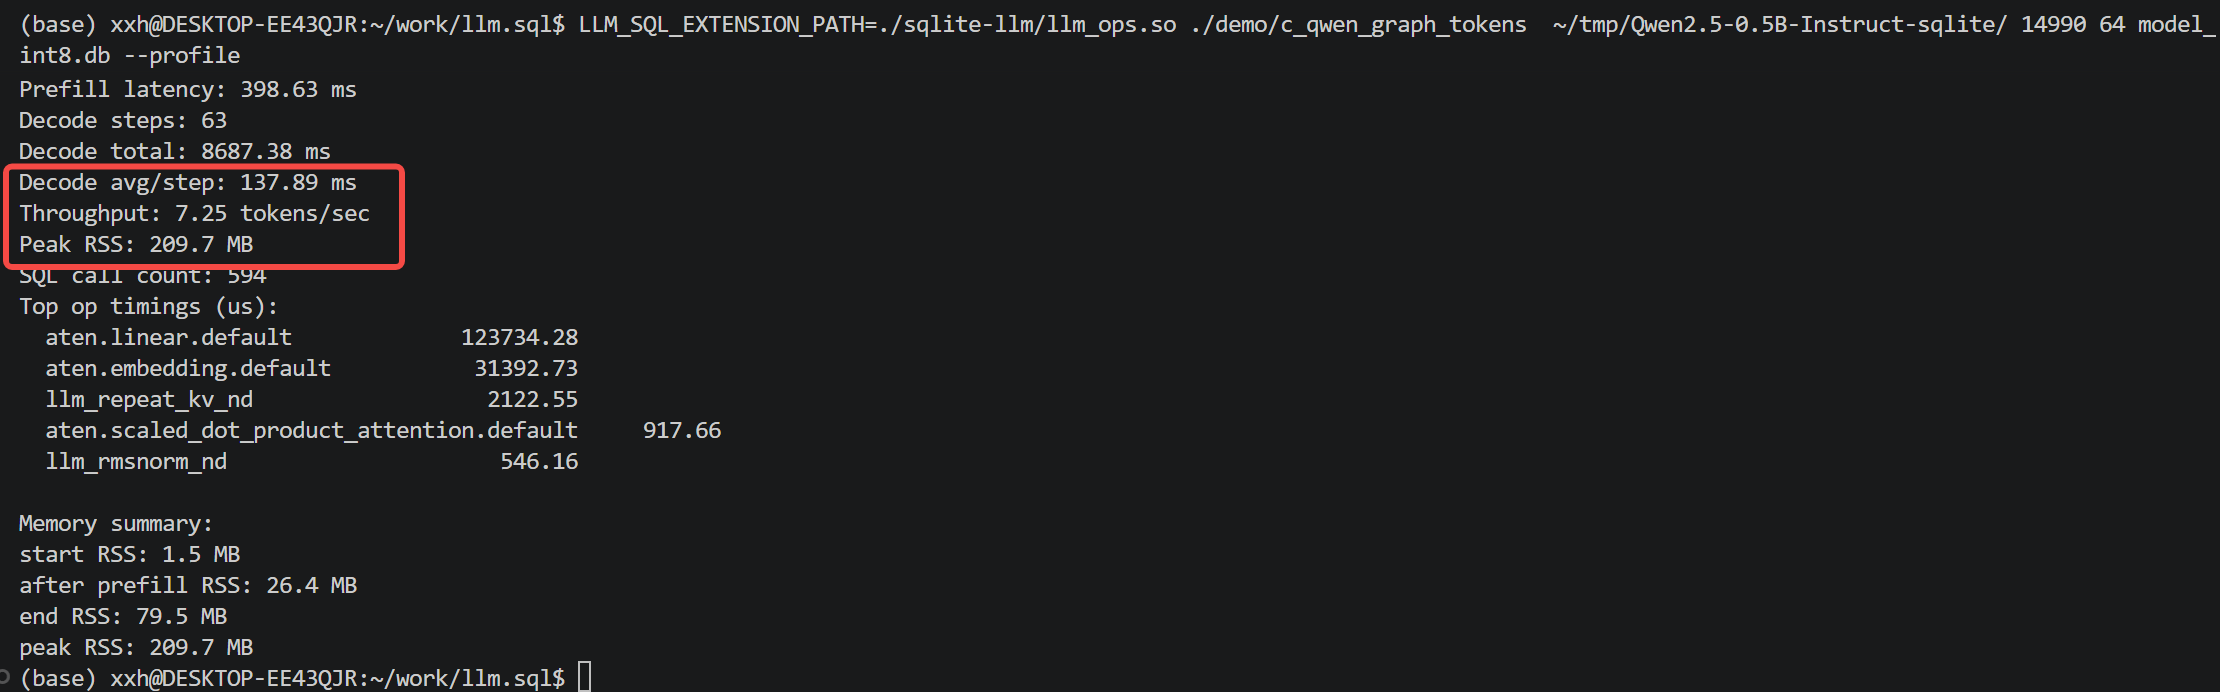
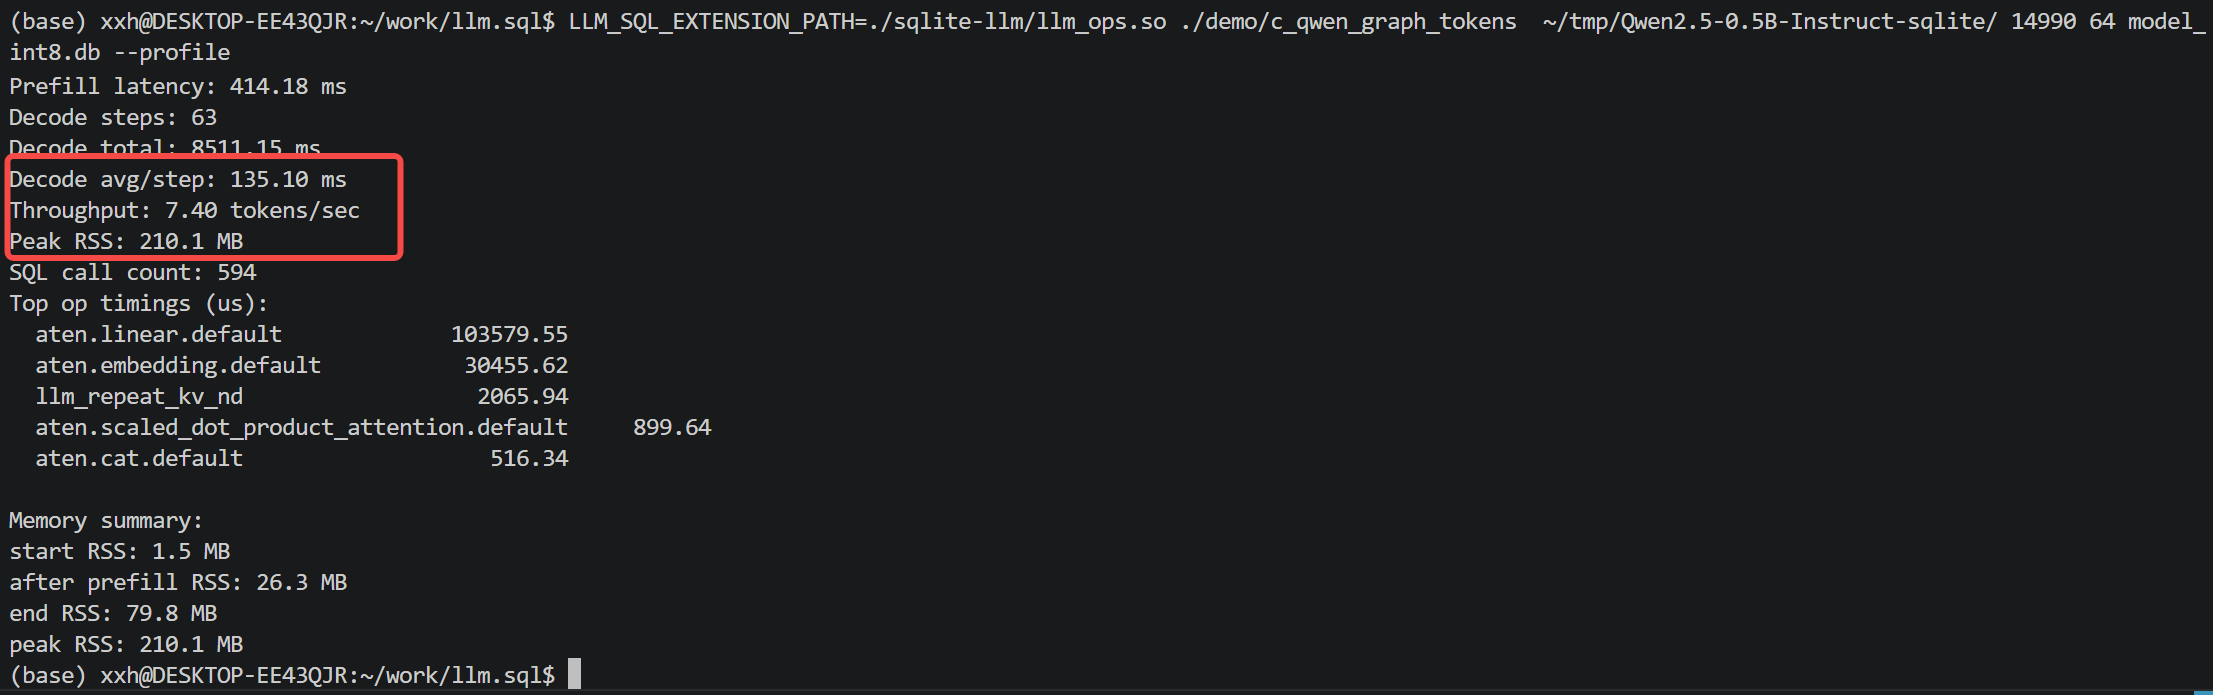
docs(C/C++) set thread to 1 even though it is not effect and rerun tests.

Changed region(s): [[0.0, 0.0, 0.9977, 0.698], [0.0, 0.7283, 0.2806, 1.0], [0.9977, 0.9711, 1.0, 1.0]]

diff --git a/demo/cpp_qwen_graph_tokens.cpp b/demo/cpp_qwen_graph_tokens.cpp
@@ -1,3 +1,10 @@
+/*
+ * @SPDX-License-Identifier: Apache-2.0
+ * @Author: xuxianghong12
+ * @Date: 2026-04-22 07:56:41
+ * @LastEditTime: 2026-04-23 00:08:05
+ * @LastEditors: xuxianghong12
+ */
 #include "native_graph_runtime.h"
 
 #include <cstdlib>
@@ -49,7 +56,7 @@ int main(int argc, char **argv) {
 
     const char *extensionPath = std::getenv("LLM_SQL_EXTENSION_PATH");
     const char *threadEnv = std::getenv("LLM_SQL_THREADS");
-    int numThreads = 4;
+    int numThreads = 1;
     if (threadEnv != nullptr && threadEnv[0] != '\0') {
         numThreads = std::atoi(threadEnv);
     }

diff --git a/demo/cpp_qwen_graph_string.cpp b/demo/cpp_qwen_graph_string.cpp
@@ -255,7 +255,7 @@ int main(int argc, char **argv) {
         std::getenv("LLM_SQL_THREADS");
     const char *dbFilename =
         positionalArgs.size() >= 4 ? positionalArgs[3] : nullptr;
-    int numThreads = 4;
+    int numThreads = 1;
 
     if (threadEnv != nullptr && threadEnv[0] != '\0') {
         numThreads = std::atoi(threadEnv);

diff --git a/demo/c_qwen_graph_tokens.c b/demo/c_qwen_graph_tokens.c
@@ -45,7 +45,7 @@ int main(int argc, char **argv) {
     int *prompt_ids = NULL;
     int prompt_len = 0;
     int max_tokens;
-    int num_threads = 4;
+    int num_threads = 1;
     int positional_count = 0;
     int profile_enabled = 0;
 

diff --git a/demo/README.md b/demo/README.md
@@ -2,7 +2,7 @@
  * @Author: xuxianghong12
  * @Date: 2026-04-14 12:23:20
  * @LastEditors: xuxianghong12
- * @LastEditTime: 2026-04-23 00:01:57
+ * @LastEditTime: 2026-04-23 00:09:48
  * @SPDX-License-Identifier: Apache-2.0
 -->
 # Demo: load tokenizer SQLite plugin from C and C++
@@ -99,7 +99,7 @@ LLM_SQL_EXTENSION_PATH=./sqlite-llm/llm_ops.so \
 </p>
 
 
-**Highlight:** Running the Qwen2.5-0.5B-INT8 model (about **640MB**) on llm.sql in C/C++ with a maximum of 64 tokens achieves approximately **7.25 tokens/s**, with a peak memory usage (Peak RSS) of around **210MB**.
+**Highlight:** Running the Qwen2.5-0.5B-INT8 model (about **640MB**) on llm.sql in C/C++ with a maximum of 64 tokens achieves approximately **7.40 tokens/s**, with a peak memory usage (Peak RSS) of around **210MB**.
 
 
 ## 5. C / C++ string prompt demo (WIP)
@@ -127,3 +127,6 @@ If `LLM_TOKENIZER_EXTENSION_PATH` is not set, the demos try to locate
 ```bash
 make -C sqlite-llm test-tokenizer
 ```
+
+# TODO
+- C/C++ thread is not effect, to fix it in the future.
